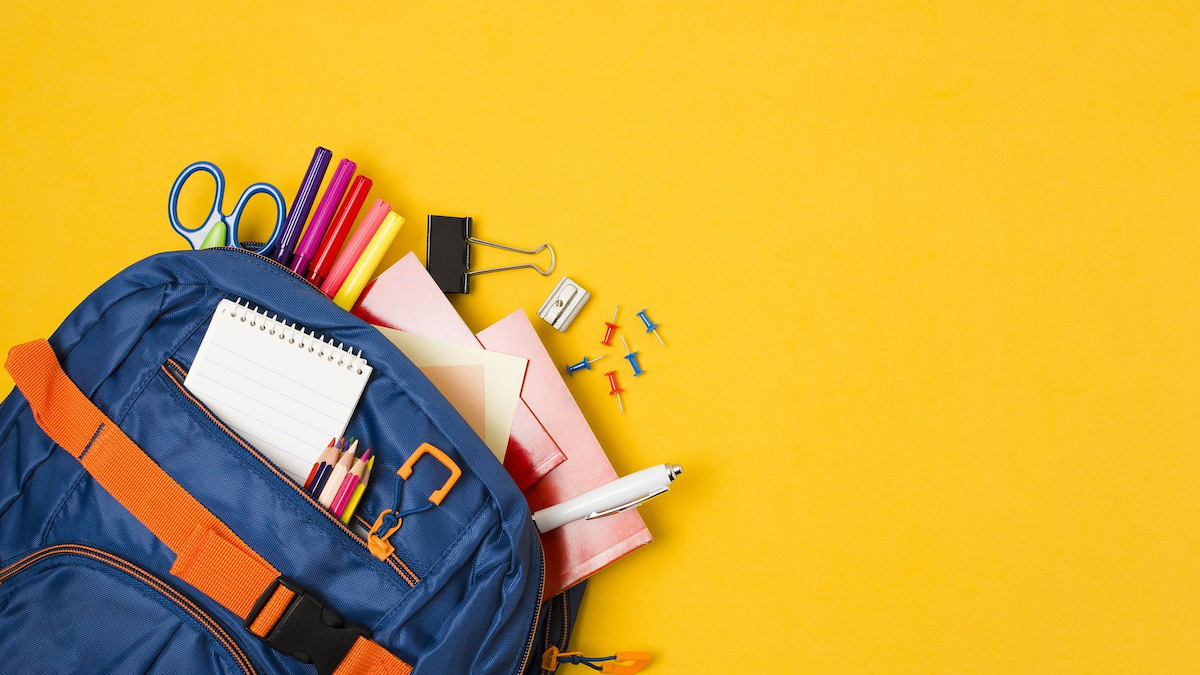
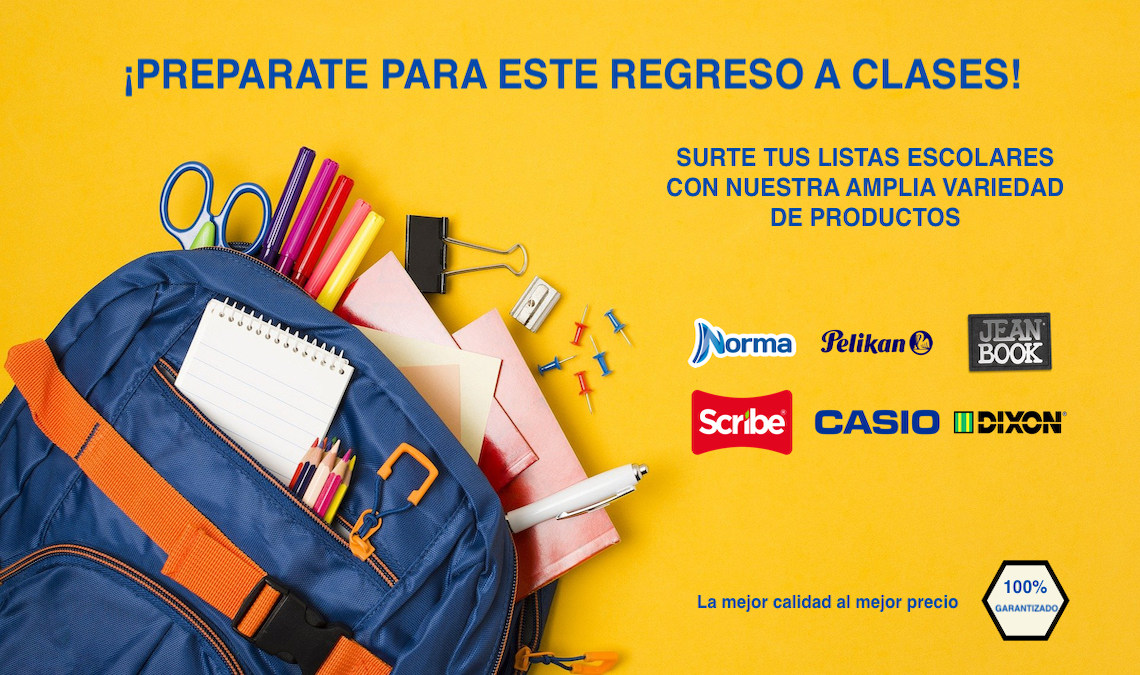
edicion de imagenes

diff --git a/css/style.css b/css/style.css
@@ -164,19 +164,9 @@ body {
   box-shadow: 0 0 50px #F8F6E2;
   border: 2px solid #F8F6E2;
   position: relative;
+  background-position: center;
 }
 
-.jumbotron h1 {
-  color: #000000;
-  font-size: 40px;
-  text-transform: uppercase;
-  font-weight: bold;
-  text-shadow: 1px 1px 1px #000000;
-  margin-top: 0;
-  margin-bottom: 0;
-  line-height: 0.75em;
-  text-align: center;
-}
 
 #meet-us {
   font-size: 24px;
@@ -395,7 +385,7 @@ p{
   /* HOME PAGE */
   .container .jumbotron {
     background: url('../images/jumbotron_1200.jpeg') no-repeat; 
-    height: 600px;
+    height: 675px;
   }
 }
 /********** Medium devices only **********/
@@ -405,18 +395,12 @@ p{
     background: url('../images/jumbotron_992.jpeg') no-repeat; 
     height: 558px;
   }
-  .jumbotron h1 {
-    font-size: 30px;
-  }
 }
 
 /********** Small devices only **********/
 @media (min-width: 768px) and (max-width: 991px) {
   .navbar-brand h1 {
     font-size: 24px;
-  }
-  .jumbotron h1 {
-    font-size: 25px;
   }
   #nav-list {
     width: 550px;
@@ -444,9 +428,6 @@ p{
   }
   .navbar-brand { 
    margin-left: 35vw; /* 1vw = 1% of viewport width */
-  }
-  .jumbotron h1 {
-    font-size: 20px;
   }
   #nav-list li {
     height: 30px;

diff --git a/index.html b/index.html
@@ -72,10 +72,7 @@
     </header>
 
     <div id="main_content" class="container">
-        <div class="jumbotron">
-
-            <h1 id="main-title">¡Preparate para este regreso a clases!</h1>
-        </div>
+        <div class="jumbotron"></div>
 
         <h2 id="meet-us">Conoce nuestra amplia variedad de productos</h2>
         <div id="home-tiles" class="row">
